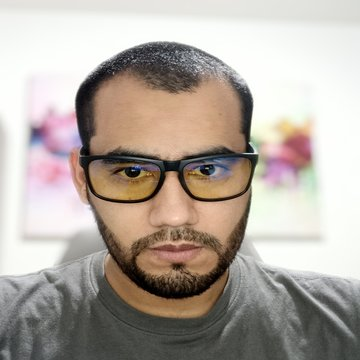
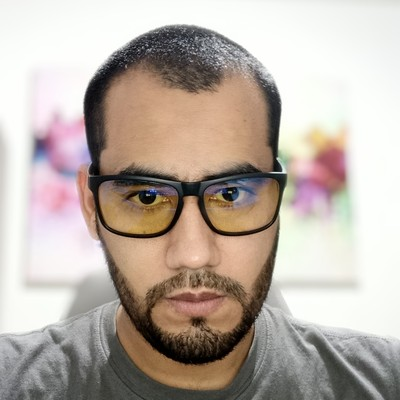
fix: Corrección de aspecto y centrado perfecto 1:1 sin distorsión en la imagen de perfil

diff --git a/assets/css/professional.css b/assets/css/professional.css
@@ -488,10 +488,13 @@ h1, h2, h3, h4, h5, h6 {
 
 .avatar-frame {
   position: relative;
+  display: block;
   width: 180px;
   height: 180px;
+  aspect-ratio: 1 / 1;
   border-radius: 50%;
   padding: 5px;
+  box-sizing: border-box;
   background: linear-gradient(135deg, rgba(0, 229, 255, 0.7), rgba(56, 189, 248, 0.3), rgba(16, 185, 129, 0.6));
   box-shadow: 0 10px 30px rgba(0, 0, 0, 0.6), 0 0 25px rgba(0, 229, 255, 0.3);
   transition: transform var(--transition-normal);
@@ -504,8 +507,9 @@ h1, h2, h3, h4, h5, h6 {
 .avatar-img {
   width: 100%;
   height: 100%;
+  aspect-ratio: 1 / 1;
   object-fit: cover;
-  object-position: center top;
+  object-position: center center;
   border-radius: 50%;
   filter: contrast(1.05) brightness(0.95);
   display: block;
